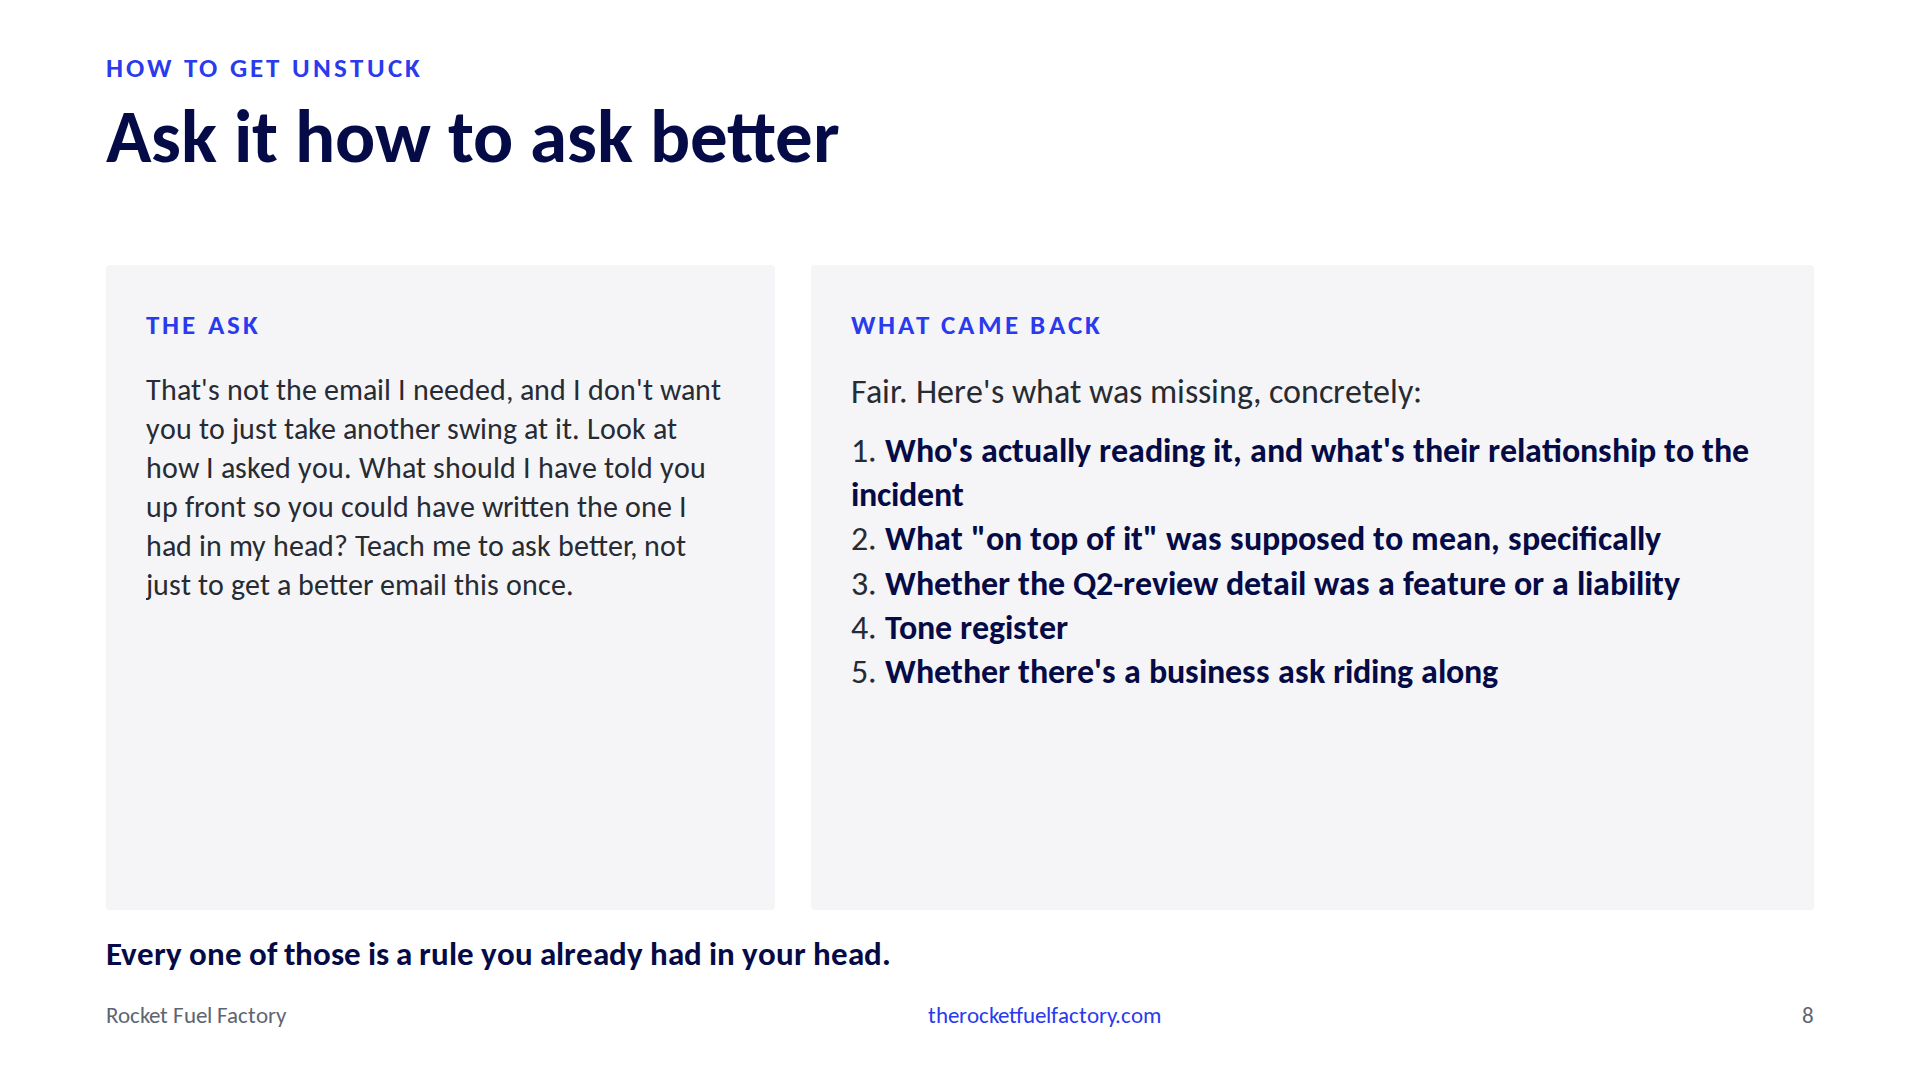
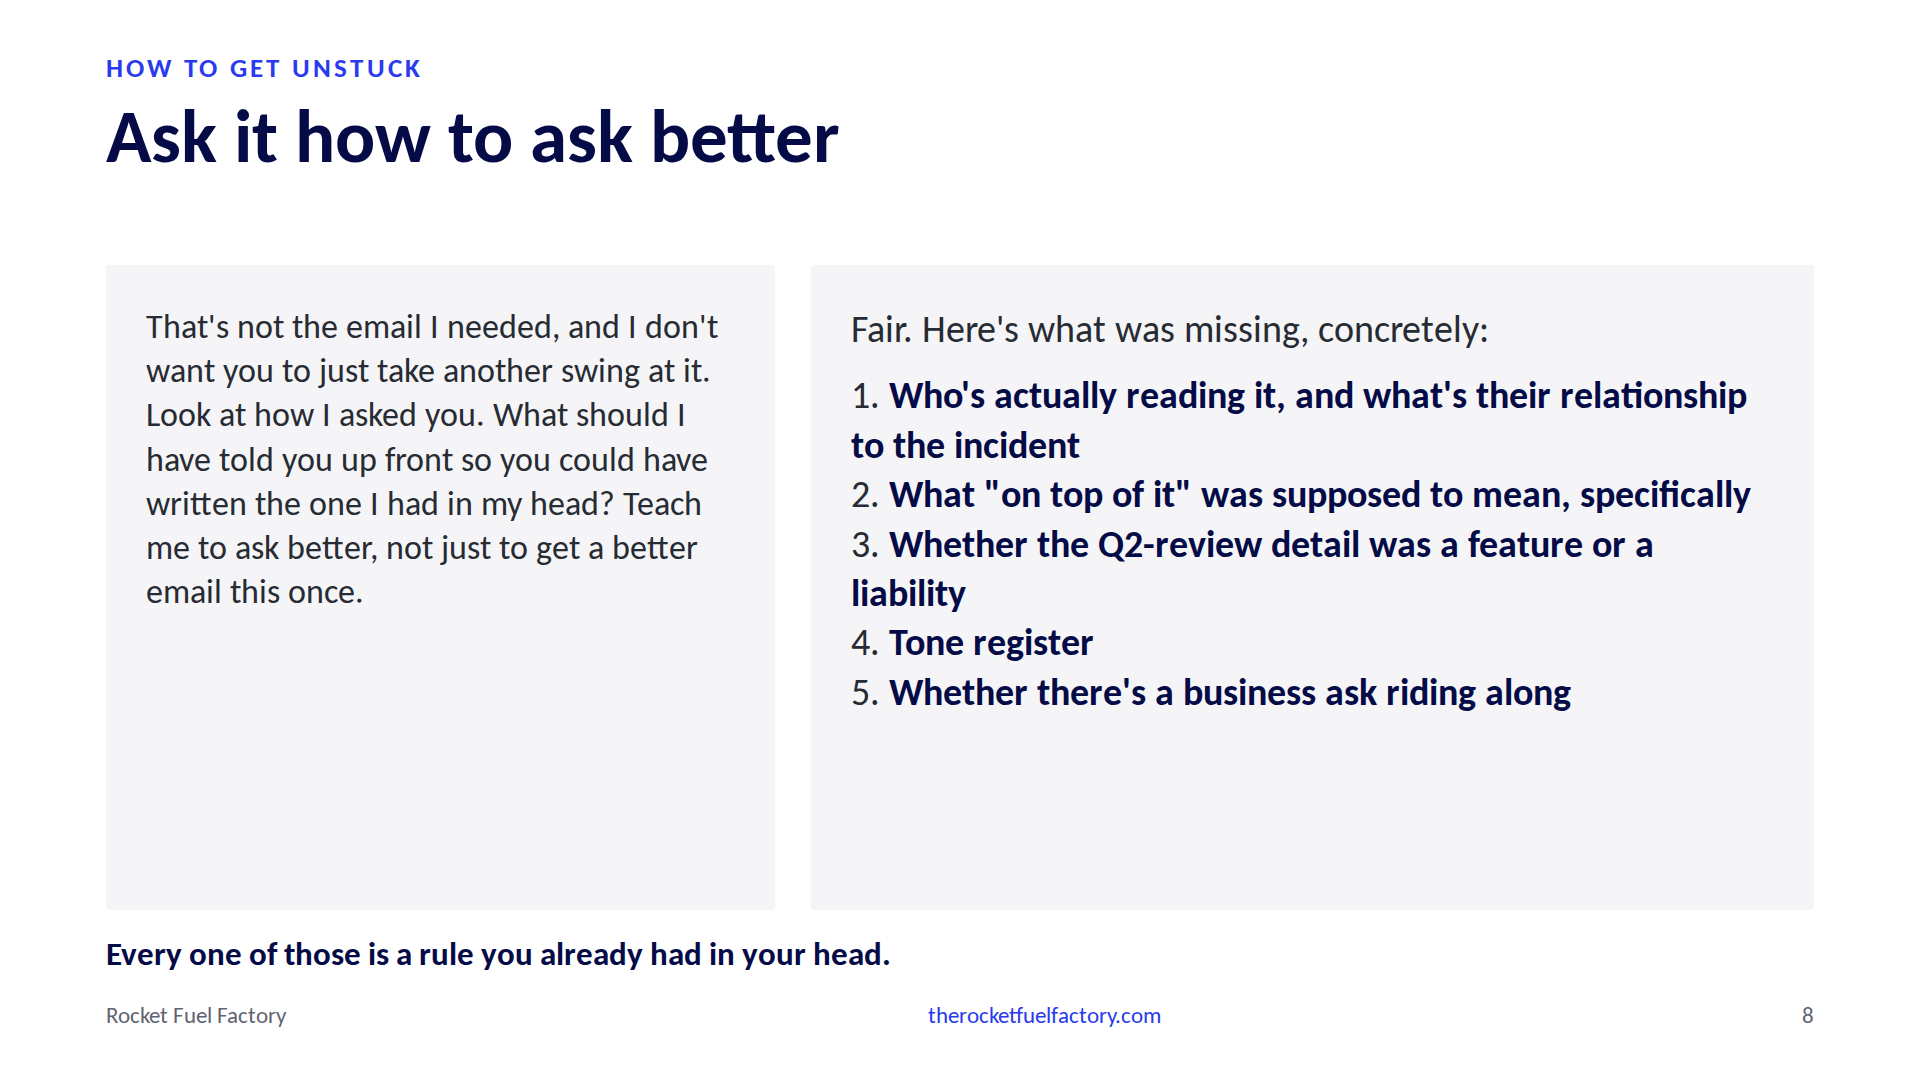
Slide 8: drop panel labels, larger text

Changed region(s): [[0.4375, 0.275, 0.9062, 0.6722], [0.0625, 0.275, 0.375, 0.5806]]

diff --git a/src/components/slides/008-DemoAsk.jsx b/src/components/slides/008-DemoAsk.jsx
@@ -10,10 +10,12 @@ export default function DemoAsk({ slideNumber }) {
       title="Ask it how to ask better"
       accent="blue"
       slideNumber={slideNumber}
+      askLabel=""
+      outputLabel=""
       prompt={askPrompt}
-      promptFontSize={30}
+      promptFontSize={34}
       output={askOutputHeadings}
-      outputFontSize={34}
+      outputFontSize={38}
       punchline="Every one of those is a rule you already had in your head."
     />
   )
